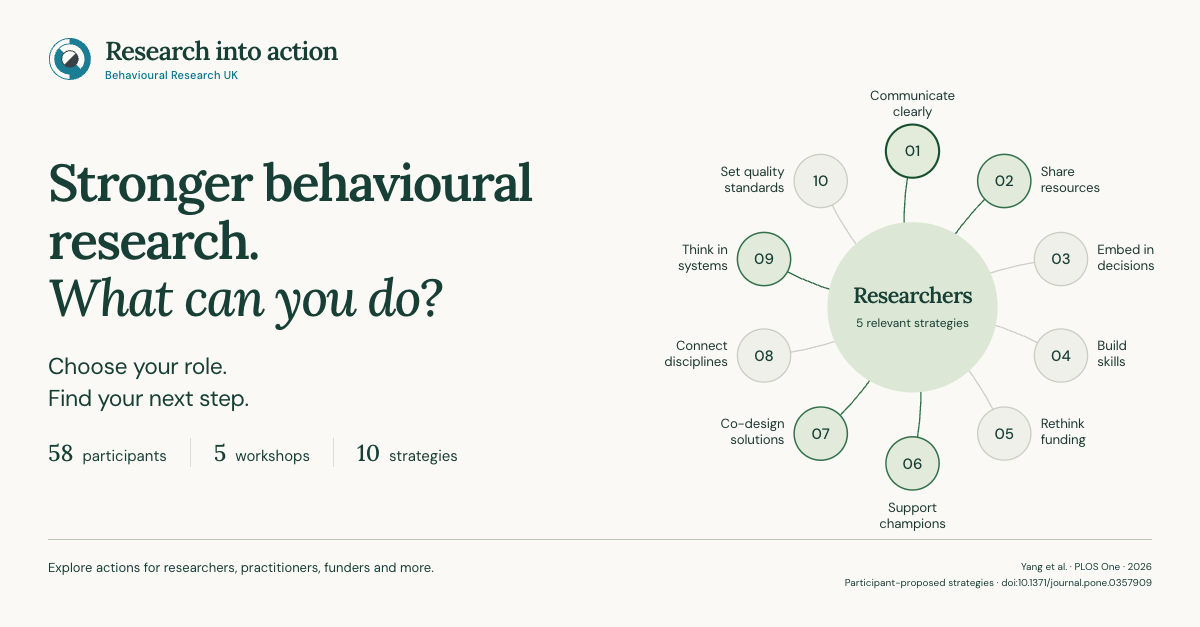
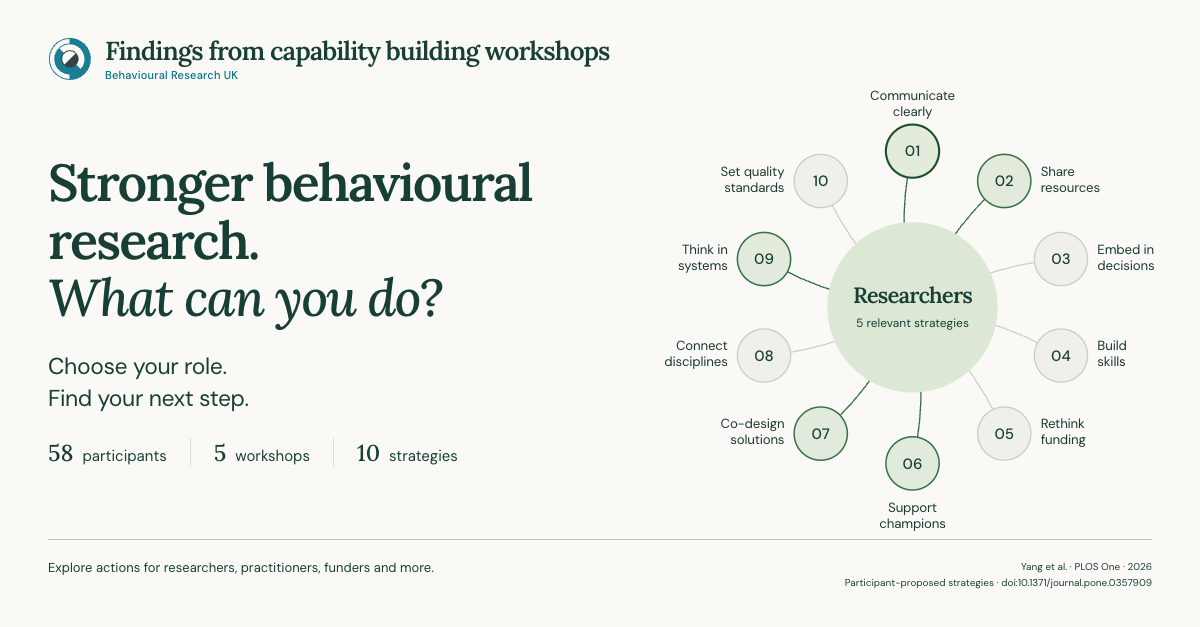
Use capability building workshops wording in the header

Changed region(s): [[0.0925, 0.0606, 0.5242, 0.1212]]

diff --git a/src/components/Brand.tsx b/src/components/Brand.tsx
@@ -10,7 +10,9 @@ export function Brand() {
         aria-hidden="true"
       />
       <span className="brand-text">
-        <span className="brand-title">Research into action</span>
+        <span className="brand-title">
+          Findings from capability building workshops
+        </span>
         <span className="brand-subtitle">Behavioural Research UK</span>
       </span>
     </span>

diff --git a/src/styles.css b/src/styles.css
@@ -1249,6 +1249,7 @@ h1 em {
   .site-header {
     min-height: 77px;
     gap: 10px;
+    padding: 12px 0;
   }
   .wordmark {
     font-size: 22px;
@@ -1256,6 +1257,7 @@ h1 em {
   }
   .site-header nav {
     gap: 8px;
+    flex-shrink: 0;
   }
   .header-link {
     font-size: 12px;
